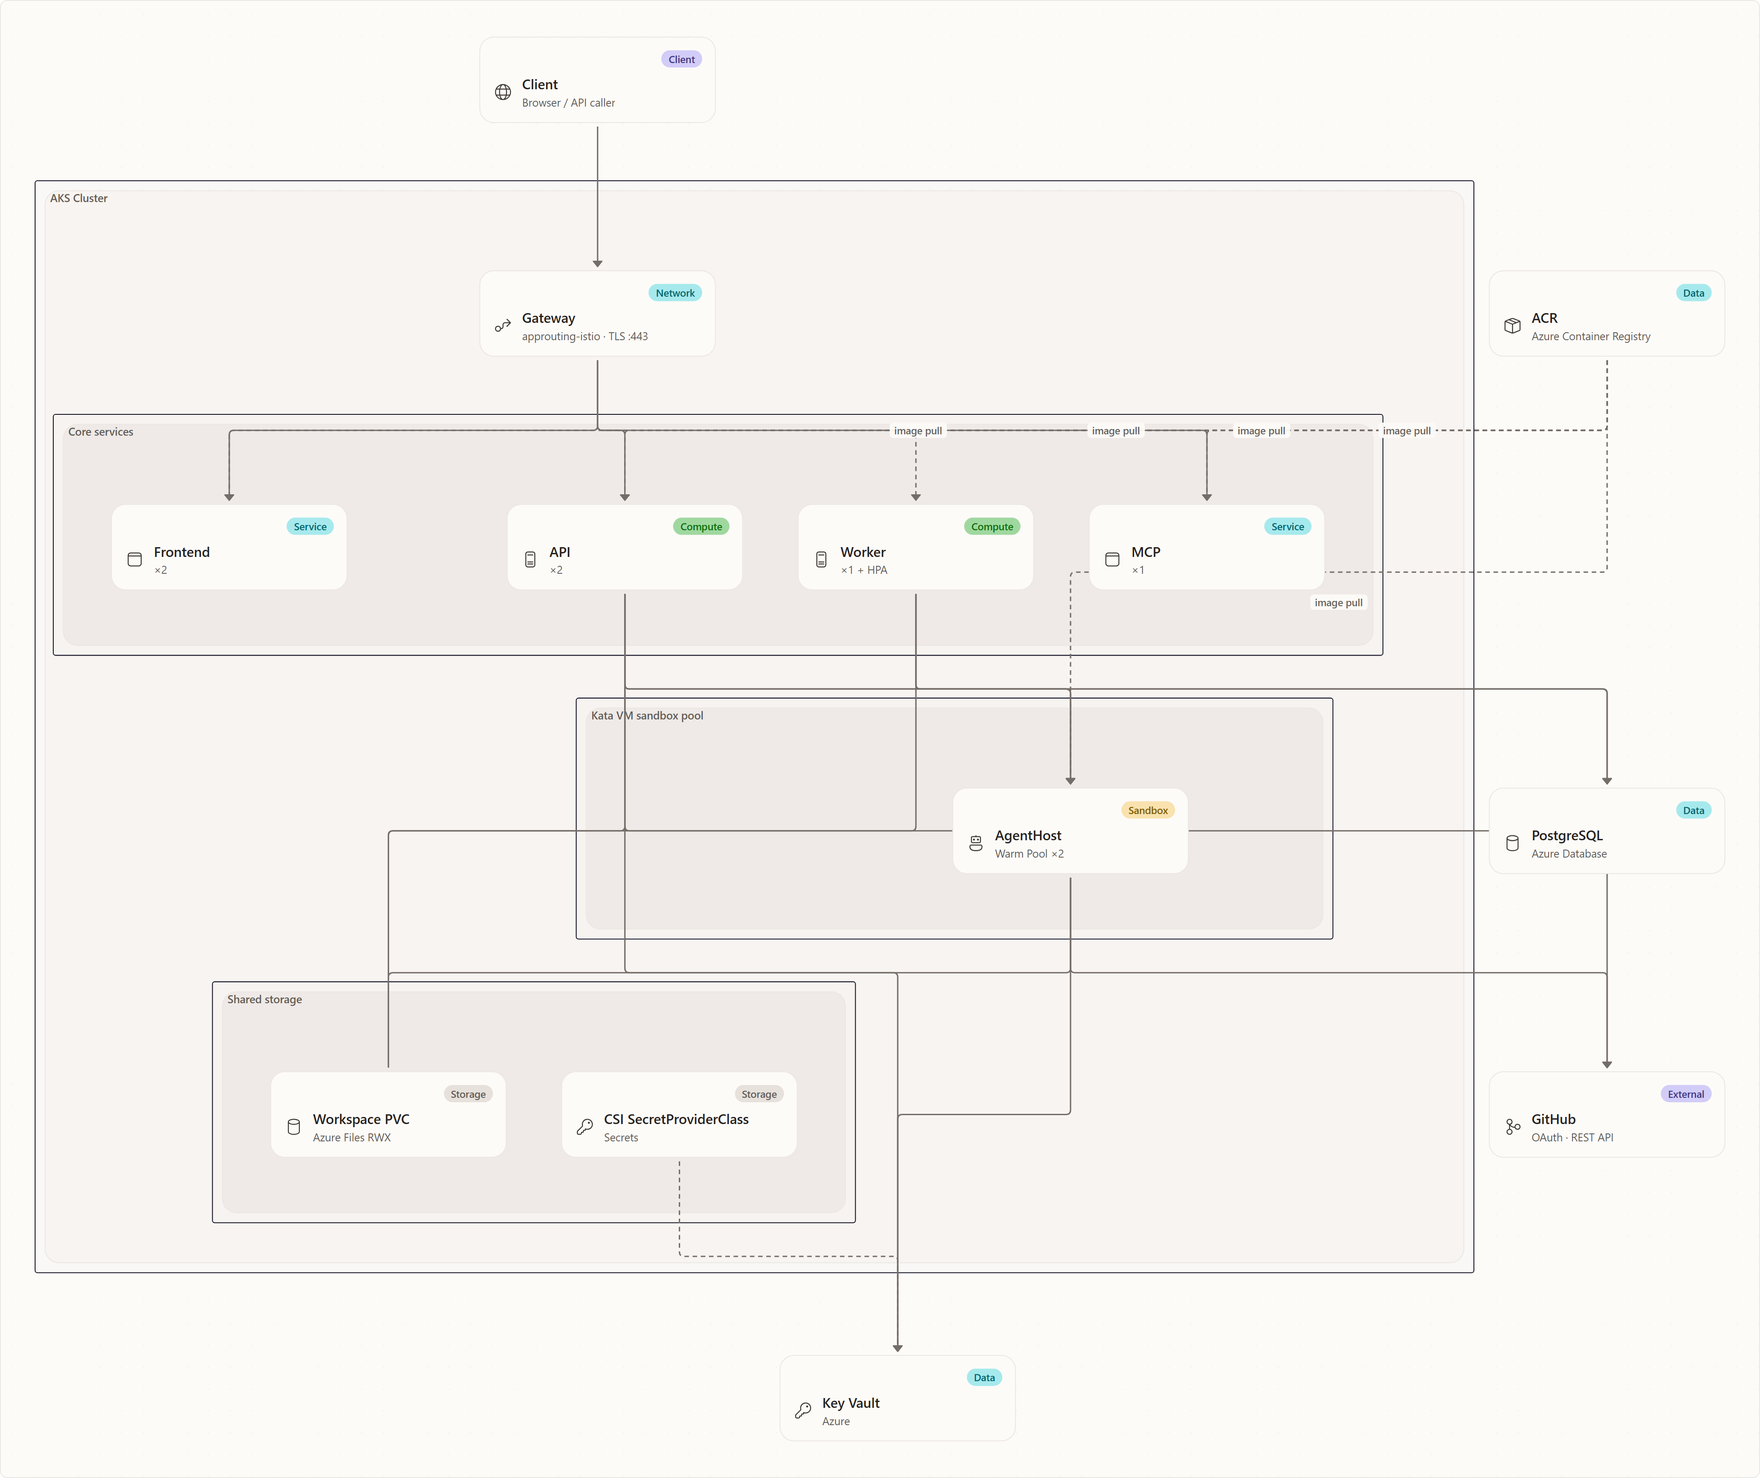
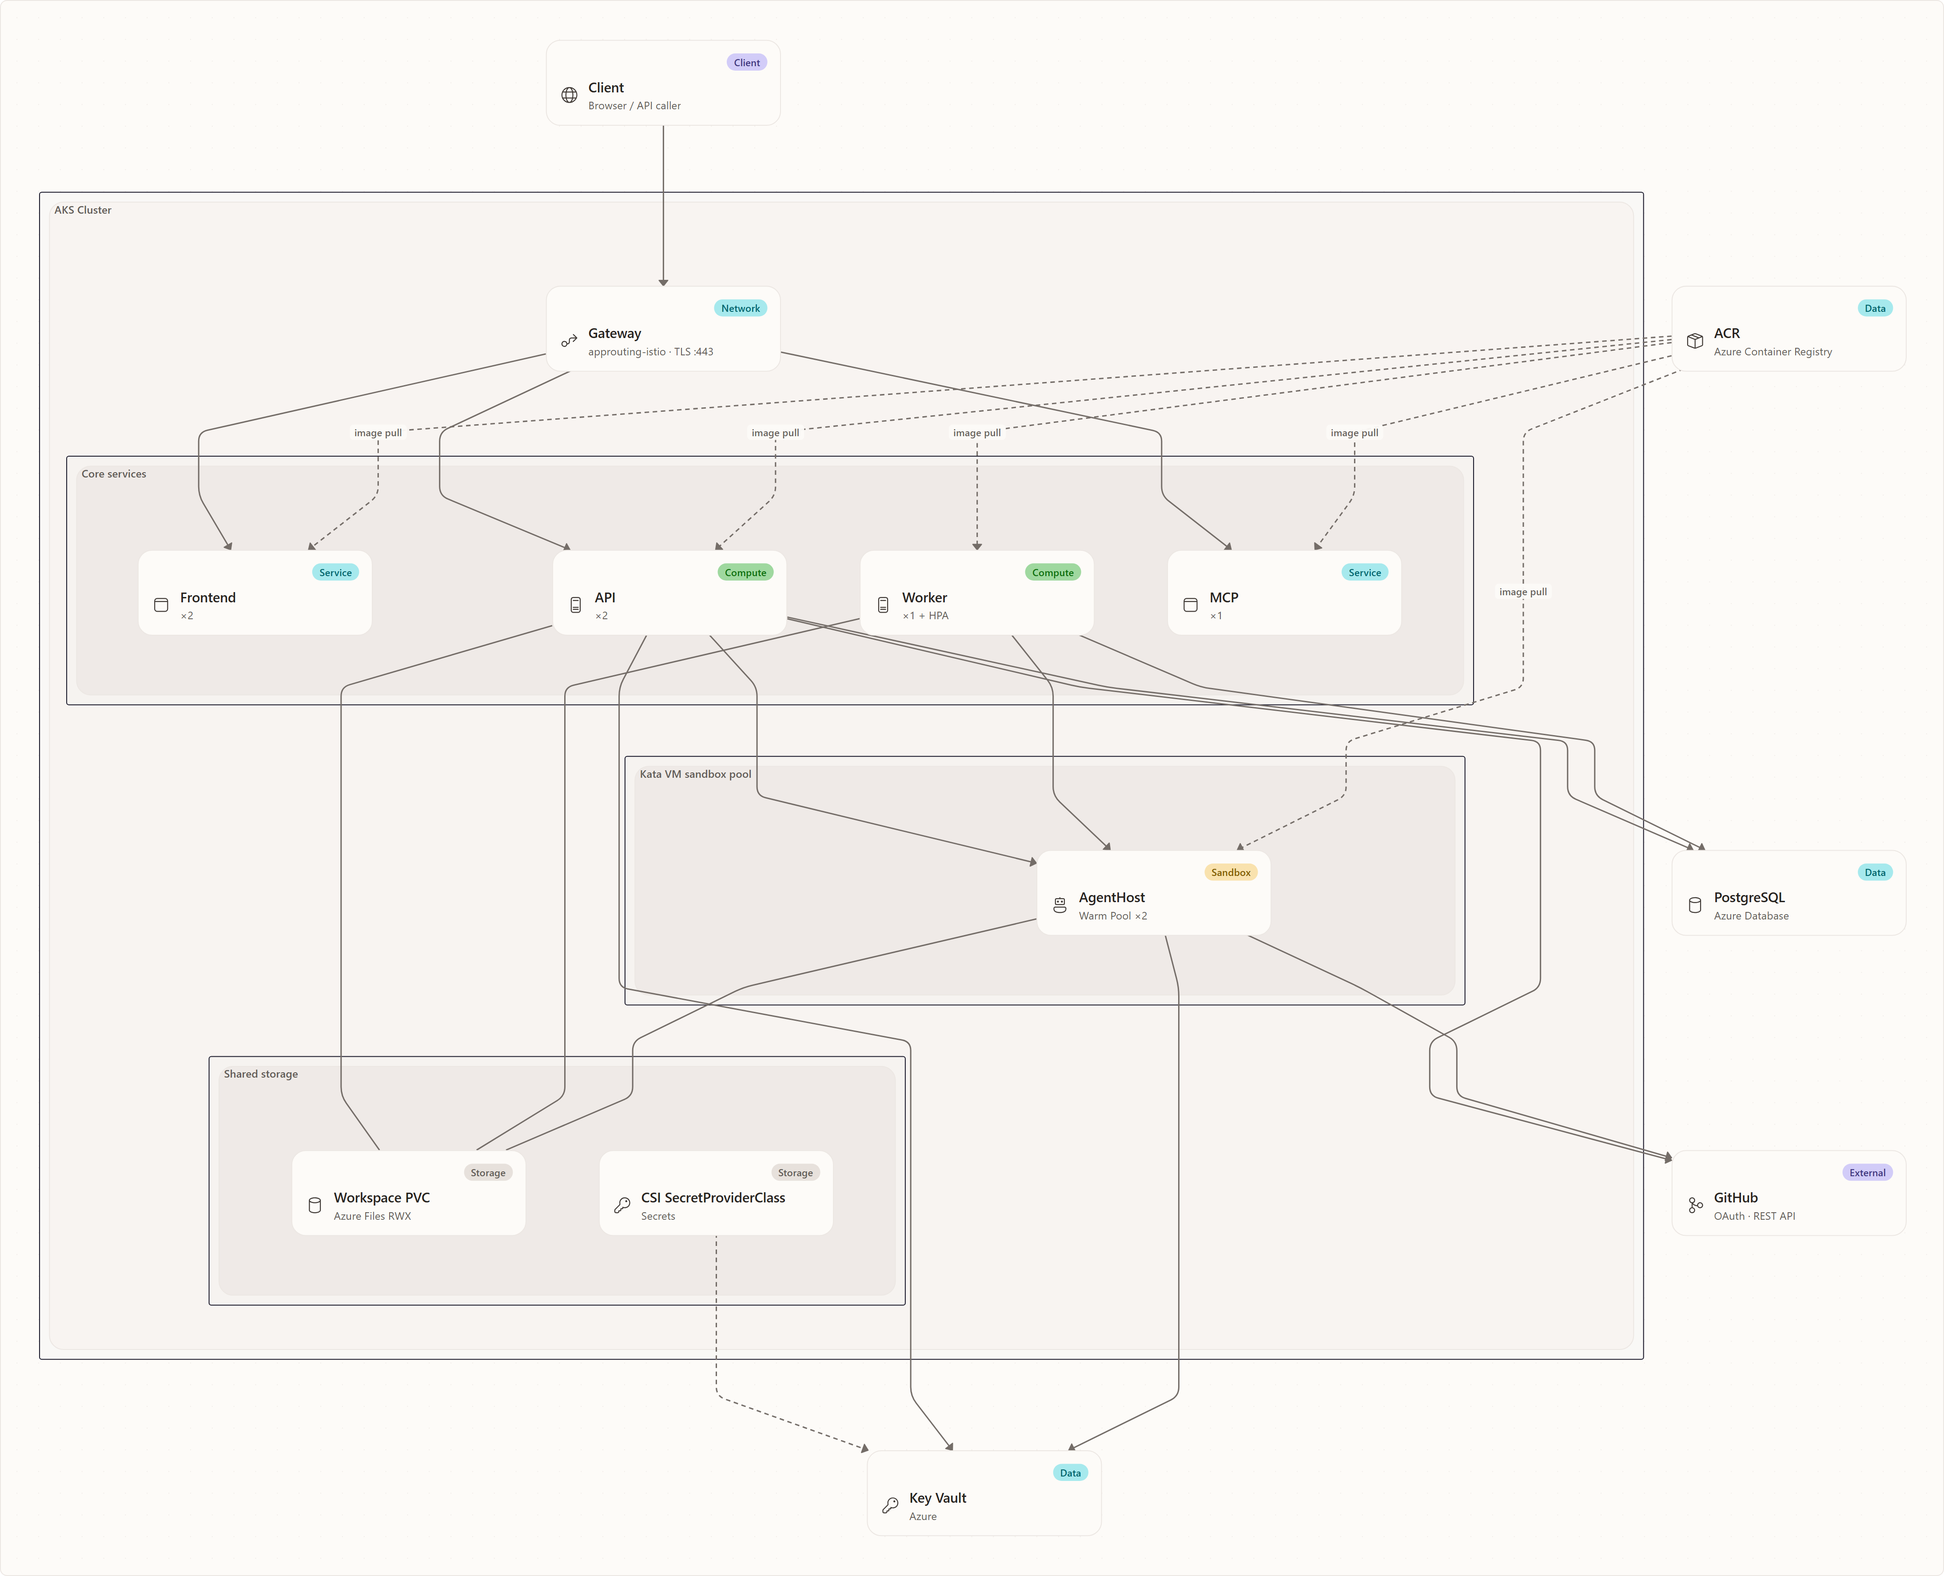
fix(docs): route diagram edges around nodes to remove overlaps
Draw each edge along dagre's routed poly-line (rounded) instead of a naive handle-to-handle smoothstep path, which sliced through intervening cards and collapsed near-parallel edges onto one another. Reserve dagre label space and widen nodesep/edgesep/ranksep. Re-rendered the 3 AKS diagrams.

diff --git a/docs/diagram-renderer/src/DiagramCanvas.tsx b/docs/diagram-renderer/src/DiagramCanvas.tsx
@@ -3,15 +3,13 @@ import { useEffect, useMemo, useState } from 'react';
 import {
   Background,
   MarkerType,
-  Position,
   ReactFlow,
-  getSmoothStepPath,
   type Edge,
   type Node,
 } from '@xyflow/react';
 import '@xyflow/react/dist/style.css';
 import { CardNode, GroupNode, CARD_WIDTH } from './nodes';
-import { LabeledSmoothStepEdge, type LabeledEdgeData } from './edges';
+import { RoutedEdge, type Point, type RoutedEdgeData } from './edges';
 import { neutral, radius } from './theme';
 import type { GraphSpec } from './types';
 
@@ -23,7 +21,7 @@ const GROUP_PAD_BOTTOM = 20;
 const CANVAS_MARGIN = 60;
 
 const nodeTypes = { card: CardNode, group: GroupNode };
-const edgeTypes = { labeledSmoothStep: LabeledSmoothStepEdge };
+const edgeTypes = { routed: RoutedEdge };
 
 interface Box { x: number; y: number; width: number; height: number }
 
@@ -130,8 +128,8 @@ function resolveLabelCollisions(items: LabelBox[], obstacles: Box[]): void {
  * dagre avoids that class of bug structurally instead of by more padding.
  */
 function layout(spec: GraphSpec): { nodes: Node[]; edges: Edge[]; canvasWidth: number; canvasHeight: number } {
-  const g = new dagre.graphlib.Graph({ compound: true });
-  g.setGraph({ rankdir: spec.direction ?? 'TB', nodesep: 60, ranksep: 110, marginx: 20, marginy: 20 });
+  const g = new dagre.graphlib.Graph({ compound: true, multigraph: true });
+  g.setGraph({ rankdir: spec.direction ?? 'TB', nodesep: 80, edgesep: 30, ranksep: 120, marginx: 20, marginy: 20 });
   g.setDefaultEdgeLabel(() => ({}));
 
   const groups = spec.groups ?? [];
@@ -145,9 +143,21 @@ function layout(spec: GraphSpec): { nodes: Node[]; edges: Edge[]; canvasWidth: n
     g.setNode(n.id, { width: CARD_WIDTH, height });
     if (n.group) g.setParent(n.id, n.group);
   }
-  for (const e of spec.edges) {
-    g.setEdge(e.from, e.to);
-  }
+  // Give every edge a stable name (index) so parallel edges between the same
+  // pair of nodes are kept distinct, and hand dagre each label's estimated
+  // footprint so it *reserves* space for the label in the layout (positioning
+  // it along the routed poly-line via edge.x/edge.y) instead of letting every
+  // label default to the shared path midpoint.
+  spec.edges.forEach((e, i) => {
+    const edgeLabel: Record<string, unknown> = {};
+    if (e.label) {
+      const { width, height } = estimateLabelSize(e.label);
+      edgeLabel.width = width;
+      edgeLabel.height = height;
+      edgeLabel.labelpos = 'c';
+    }
+    g.setEdge(e.from, e.to, edgeLabel, `e${i}`);
+  });
   dagre.layout(g);
 
   const leafBoxes = new Map<string, Box>();
@@ -206,33 +216,29 @@ function layout(spec: GraphSpec): { nodes: Node[]; edges: Edge[]; canvasWidth: n
     });
   }
 
-  // Compute each edge's label position with the *exact* same function
-  // LabeledSmoothStepEdge uses at render time (getSmoothStepPath is a pure
-  // geometry function -- no React context needed), using the same handle
-  // positions our cards expose (source: bottom-center, target: top-center;
-  // see the <Handle> placement in nodes.tsx). Using the real function here
-  // instead of a hand-rolled straight-line approximation means the
-  // collision-avoidance below reasons about exactly where the label will
-  // actually land, including the orthogonal jogs smoothstep adds for edges
-  // whose source/target aren't vertically aligned -- an earlier straight-line
-  // estimate could diverge enough from the true bent path that an offset
-  // computed to avoid one collision would clear the label into an
-  // unrelated card lying along the jogged route.
+  // Pull dagre's routed poly-line and reserved label anchor for every edge.
+  // dagre routes each edge through per-rank waypoints chosen to avoid the node
+  // cards, and -- because labelled edges were given a width/height above --
+  // reserves a non-overlapping slot for each label along that route (edge.x/
+  // edge.y). Seeding the collision pass from those reserved anchors (rather
+  // than a shared path midpoint) means labels start already separated; the
+  // pass then only has to break any residual overlap and keep labels off the
+  // opaque card backgrounds.
+  const routedPoints: Point[][] = [];
+  const labelAnchors: (Point | undefined)[] = [];
   const labelBoxes: LabelBox[] = [];
   spec.edges.forEach((e, i) => {
-    if (!e.label) return;
-    const sBox = leafBoxes.get(e.from)!;
-    const tBox = leafBoxes.get(e.to)!;
-    const [, labelX, labelY] = getSmoothStepPath({
-      sourceX: sBox.x + sBox.width / 2,
-      sourceY: sBox.y + sBox.height,
-      sourcePosition: Position.Bottom,
-      targetX: tBox.x + tBox.width / 2,
-      targetY: tBox.y,
-      targetPosition: Position.Top,
-    });
-    const { width, height } = estimateLabelSize(e.label);
-    labelBoxes.push({ index: i, cx: labelX, cy: labelY, width, height, dx: 0, dy: 0 });
+    const ge = g.edge(e.from, e.to, `e${i}`) as { points?: Point[]; x?: number; y?: number } | undefined;
+    const pts: Point[] = (ge?.points ?? []).map((p) => ({ x: p.x, y: p.y }));
+    routedPoints.push(pts);
+    if (e.label && ge && typeof ge.x === 'number' && typeof ge.y === 'number') {
+      const anchor = { x: ge.x, y: ge.y };
+      labelAnchors.push(anchor);
+      const { width, height } = estimateLabelSize(e.label);
+      labelBoxes.push({ index: i, cx: anchor.x, cy: anchor.y, width, height, dx: 0, dy: 0 });
+    } else {
+      labelAnchors.push(undefined);
+    }
   });
   // Cards obscure a label with a solid background (unlike the translucent
   // group containers, which labels are expected to sit on top of), so only
@@ -242,32 +248,43 @@ function layout(spec: GraphSpec): { nodes: Node[]; edges: Edge[]; canvasWidth: n
     labelBoxes.map((l) => [l.index, { dx: l.dx, dy: l.dy }]),
   );
 
-  const edges: Edge[] = spec.edges.map((e, i) => ({
-    id: `e${i}-${e.from}-${e.to}`,
-    source: e.from,
-    target: e.to,
-    label: e.label,
-    type: 'labeledSmoothStep',
-    data: { labelOffset: labelOffsetByIndex.get(i) ?? { dx: 0, dy: 0 } } satisfies LabeledEdgeData,
-    style: {
-      stroke: neutral.foreground4,
-      strokeWidth: 1.5,
-      strokeDasharray: e.dashed ? '5 4' : undefined,
-    },
-    markerEnd: e.undirected ? undefined : { type: MarkerType.ArrowClosed, color: neutral.foreground4, width: 16, height: 16 },
-  }));
-
   const allBoxes = [...leafBoxes.values(), ...groupBoxes.values()];
   const bbox = unionBox(allBoxes);
   const canvasWidth = bbox.width + CANVAS_MARGIN * 2;
   const canvasHeight = bbox.height + CANVAS_MARGIN * 2;
 
   // Shift everything so the union bbox starts at (CANVAS_MARGIN, CANVAS_MARGIN).
+  // Edge poly-lines and label anchors come out of dagre in the same
+  // pre-shift coordinate space as the nodes, so they get the same translation.
   const dx = CANVAS_MARGIN - bbox.x;
   const dy = CANVAS_MARGIN - bbox.y;
   for (const n of nodes) {
     n.position = { x: n.position.x + dx, y: n.position.y + dy };
   }
+
+  const edges: Edge[] = spec.edges.map((e, i) => {
+    const shiftedPoints = routedPoints[i].map((p) => ({ x: p.x + dx, y: p.y + dy }));
+    const anchor = labelAnchors[i];
+    const labelPos = anchor ? { x: anchor.x + dx, y: anchor.y + dy } : undefined;
+    return {
+      id: `e${i}-${e.from}-${e.to}`,
+      source: e.from,
+      target: e.to,
+      label: e.label,
+      type: 'routed',
+      data: {
+        points: shiftedPoints,
+        labelPos,
+        labelOffset: labelOffsetByIndex.get(i) ?? { dx: 0, dy: 0 },
+      } satisfies RoutedEdgeData,
+      style: {
+        stroke: neutral.foreground4,
+        strokeWidth: 1.5,
+        strokeDasharray: e.dashed ? '5 4' : undefined,
+      },
+      markerEnd: e.undirected ? undefined : { type: MarkerType.ArrowClosed, color: neutral.foreground4, width: 16, height: 16 },
+    };
+  });
 
   return { nodes, edges, canvasWidth, canvasHeight };
 }

diff --git a/docs/diagram-renderer/src/edges.tsx b/docs/diagram-renderer/src/edges.tsx
@@ -1,4 +1,4 @@
-import { BaseEdge, EdgeLabelRenderer, getSmoothStepPath, type EdgeProps } from '@xyflow/react';
+import { BaseEdge, EdgeLabelRenderer, type EdgeProps } from '@xyflow/react';
 import { fontFamily, neutral } from './theme';
 
 export interface LabelOffset {
@@ -6,58 +6,101 @@ export interface LabelOffset {
   dy: number;
 }
 
-export interface LabeledEdgeData extends Record<string, unknown> {
+export interface Point {
+  x: number;
+  y: number;
+}
+
+export interface RoutedEdgeData extends Record<string, unknown> {
+  /** Poly-line waypoints dagre computed for this edge, in flow coordinates,
+   * already routed to avoid intervening node cards. */
+  points: Point[];
+  /** Label anchor dagre reserved for this edge (edge.x/edge.y). */
+  labelPos?: Point;
+  /** Small nudge applied on top of labelPos to break residual label overlaps. */
   labelOffset?: LabelOffset;
 }
 
-/**
- * A smoothstep edge whose label is rendered via `EdgeLabelRenderer` (plain
- * HTML, not the built-in SVG `<text>`+bg-rect label) so its position can be
- * nudged by a precomputed `data.labelOffset` -- see
- * `resolveLabelCollisions()` in DiagramCanvas.tsx. The built-in smoothstep
- * edge always centers its label on the path's own midpoint; with several
- * parallel/fanning edges crossing the same rank band (e.g. several services
- * all pulling images from one registry, or two sibling nodes both calling
- * the same downstream target) those midpoints land on top of each other,
- * making the label text illegible. This component still draws the exact
- * same path, it just lets the label be shifted a few pixels off that
- * midpoint when doing so is required to avoid overlapping a neighboring
- * label's bounding box.
- */
-export function LabeledSmoothStepEdge({
-  id,
-  sourceX,
-  sourceY,
-  targetX,
-  targetY,
-  sourcePosition,
-  targetPosition,
-  style,
-  markerEnd,
-  label,
-  data,
-}: EdgeProps) {
-  const [edgePath, labelX, labelY] = getSmoothStepPath({
-    sourceX,
-    sourceY,
-    sourcePosition,
-    targetX,
-    targetY,
-    targetPosition,
-  });
+/** Corner radius used to round the orthogonal joints of a routed edge so it
+ * reads like the product's smoothstep edges rather than hard right angles. */
+const CORNER_RADIUS = 10;
 
-  const offset = (data as LabeledEdgeData | undefined)?.labelOffset ?? { dx: 0, dy: 0 };
+function dist(a: Point, b: Point): number {
+  return Math.hypot(b.x - a.x, b.y - a.y);
+}
+
+/**
+ * Builds an SVG path that follows `points` exactly but replaces each interior
+ * vertex with a short quadratic-bezier fillet, so dagre's routed orthogonal
+ * poly-line renders with rounded corners. Because the geometry comes straight
+ * from dagre's edge routing (which threads edges through the gaps between
+ * ranked nodes), the resulting line never cuts through an unrelated card the
+ * way a naive handle-to-handle smoothstep path does.
+ */
+export function buildRoundedPath(points: Point[], radius = CORNER_RADIUS): string {
+  if (points.length === 0) return '';
+  if (points.length === 1) return `M ${points[0].x},${points[0].y}`;
+  if (points.length === 2) {
+    return `M ${points[0].x},${points[0].y} L ${points[1].x},${points[1].y}`;
+  }
+
+  let d = `M ${points[0].x},${points[0].y}`;
+  for (let i = 1; i < points.length - 1; i += 1) {
+    const p0 = points[i - 1];
+    const p1 = points[i];
+    const p2 = points[i + 1];
+
+    const d01 = dist(p0, p1);
+    const d12 = dist(p1, p2);
+    if (d01 === 0 || d12 === 0) {
+      d += ` L ${p1.x},${p1.y}`;
+      continue;
+    }
+    const r = Math.min(radius, d01 / 2, d12 / 2);
+    const enter = {
+      x: p1.x - ((p1.x - p0.x) / d01) * r,
+      y: p1.y - ((p1.y - p0.y) / d01) * r,
+    };
+    const exit = {
+      x: p1.x + ((p2.x - p1.x) / d12) * r,
+      y: p1.y + ((p2.y - p1.y) / d12) * r,
+    };
+    d += ` L ${enter.x},${enter.y} Q ${p1.x},${p1.y} ${exit.x},${exit.y}`;
+  }
+  const last = points[points.length - 1];
+  d += ` L ${last.x},${last.y}`;
+  return d;
+}
+
+/**
+ * An edge that draws the exact poly-line dagre routed for it (see
+ * `layout()` in DiagramCanvas.tsx) instead of a handle-to-handle smoothstep
+ * path. dagre performs real layered edge routing -- inserting per-rank
+ * routing waypoints that thread the line through the gaps between cards -- so
+ * using those waypoints is what keeps edges from visually overlapping or
+ * crossing straight through unrelated nodes. The label is rendered via
+ * `EdgeLabelRenderer` at dagre's reserved label anchor (dagre reserves label
+ * space in the layout, so labels no longer pile onto a shared midpoint),
+ * with a small precomputed `labelOffset` applied to break any residual
+ * overlap between co-located labels.
+ */
+export function RoutedEdge({ id, style, markerEnd, label, data }: EdgeProps) {
+  const { points, labelPos, labelOffset } = (data as RoutedEdgeData | undefined) ?? {
+    points: [],
+  };
+  const edgePath = buildRoundedPath(points ?? []);
+  const offset = labelOffset ?? { dx: 0, dy: 0 };
 
   return (
     <>
       <BaseEdge id={id} path={edgePath} style={style} markerEnd={markerEnd} />
-      {label ? (
+      {label && labelPos ? (
         <EdgeLabelRenderer>
           <div
             className="nodrag nopan"
             style={{
               position: 'absolute',
-              transform: `translate(-50%, -50%) translate(${labelX + offset.dx}px, ${labelY + offset.dy}px)`,
+              transform: `translate(-50%, -50%) translate(${labelPos.x + offset.dx}px, ${labelPos.y + offset.dy}px)`,
               fontFamily,
               fontSize: 11,
               fontWeight: 600,

diff --git a/docs/diagrams/README.md b/docs/diagrams/README.md
@@ -23,11 +23,33 @@ same `@xyflow/react` + `dagre` stack the product uses for its live workflow/
 topology graphs), with a custom node card component
 (`docs/diagram-renderer/src/nodes.tsx`) that mirrors
 `CoordinatorTopologyGraph.tsx`'s card layout: a rounded card, an icon + title +
-subtitle column, and a pill-shaped category badge — using the app's actual
+subtitle column, and a pill-shaped category badge -- using the app's actual
 resolved Fluent color palette (`docs/diagram-renderer/src/theme.ts`), not
 Mermaid's flat classDef fills. The rendered result is captured as a static PNG
 via Playwright, so it embeds in GitHub/VitePress exactly as rendered, with no
 dependency on any viewer's own diagram renderer.
+
+## Edge routing (no overlapping / card-piercing lines)
+
+Edges are **not** drawn as naive handle-to-handle paths. Doing that (an earlier
+version used `getSmoothStepPath` from each card's bottom handle to the next
+card's top handle) ignores where the intervening nodes actually are, so a line
+spanning several ranks slices straight through any card in between and several
+near-parallel edges collapse onto one another -- illegible, and nothing like a
+professional draw.io/Fluent architecture diagram.
+
+Instead, each edge is drawn along the **poly-line dagre itself routes** for it
+(`docs/diagram-renderer/src/edges.tsx`'s `RoutedEdge` renders `dagre`'s
+computed `edge.points`, rounded at the corners so it still reads like a
+smoothstep curve). dagre performs real layered edge routing -- inserting
+per-rank waypoints chosen to thread each line through the gaps between ranked
+nodes -- so edges follow those gaps instead of cutting across cards. Labelled
+edges additionally hand dagre their estimated footprint (`width`/`height`) so
+it *reserves* a non-overlapping slot for each label along the route; a light
+collision-avoidance pass in `DiagramCanvas.tsx` then breaks any residual label
+overlap and keeps labels off the opaque card backgrounds. This is a generic
+pipeline fix -- every current and future graph-spec gets overlap-free routing
+with no per-diagram tuning.
 
 ## How it works
 

diff --git a/.changeset/fix-diagram-edge-routing.md b/.changeset/fix-diagram-edge-routing.md
@@ -1,0 +1,21 @@
+---
+"agentweaver": patch
+---
+
+Fixed edge routing in the architecture-diagram renderer so lines no longer
+overlap each other or cut straight through unrelated node cards. The renderer
+was drawing every edge as a `getSmoothStepPath` between fixed top/bottom
+handles, which ignores dagre's own edge routing -- so an edge from one rank to
+a distant rank sliced right through any card in between, and several
+near-parallel edges collapsed onto the same path.
+
+The shared renderer (`docs/diagram-renderer/`) now draws each edge along the
+poly-line dagre actually routes for it (`dagre` performs real layered edge
+routing, threading each line through the gaps between ranked nodes), rendered
+with rounded corners so it still reads like the product's smoothstep edges.
+Labelled edges hand dagre their footprint up front so it reserves
+non-overlapping label slots along the route, and the existing label
+collision-avoidance pass now seeds from those reserved anchors. `nodesep`,
+`edgesep`, and `ranksep` were widened for extra breathing room. This is a
+general fix in the pipeline -- every current and future graph-spec benefits,
+with no per-diagram tuning. The three AKS diagrams were re-rendered.
